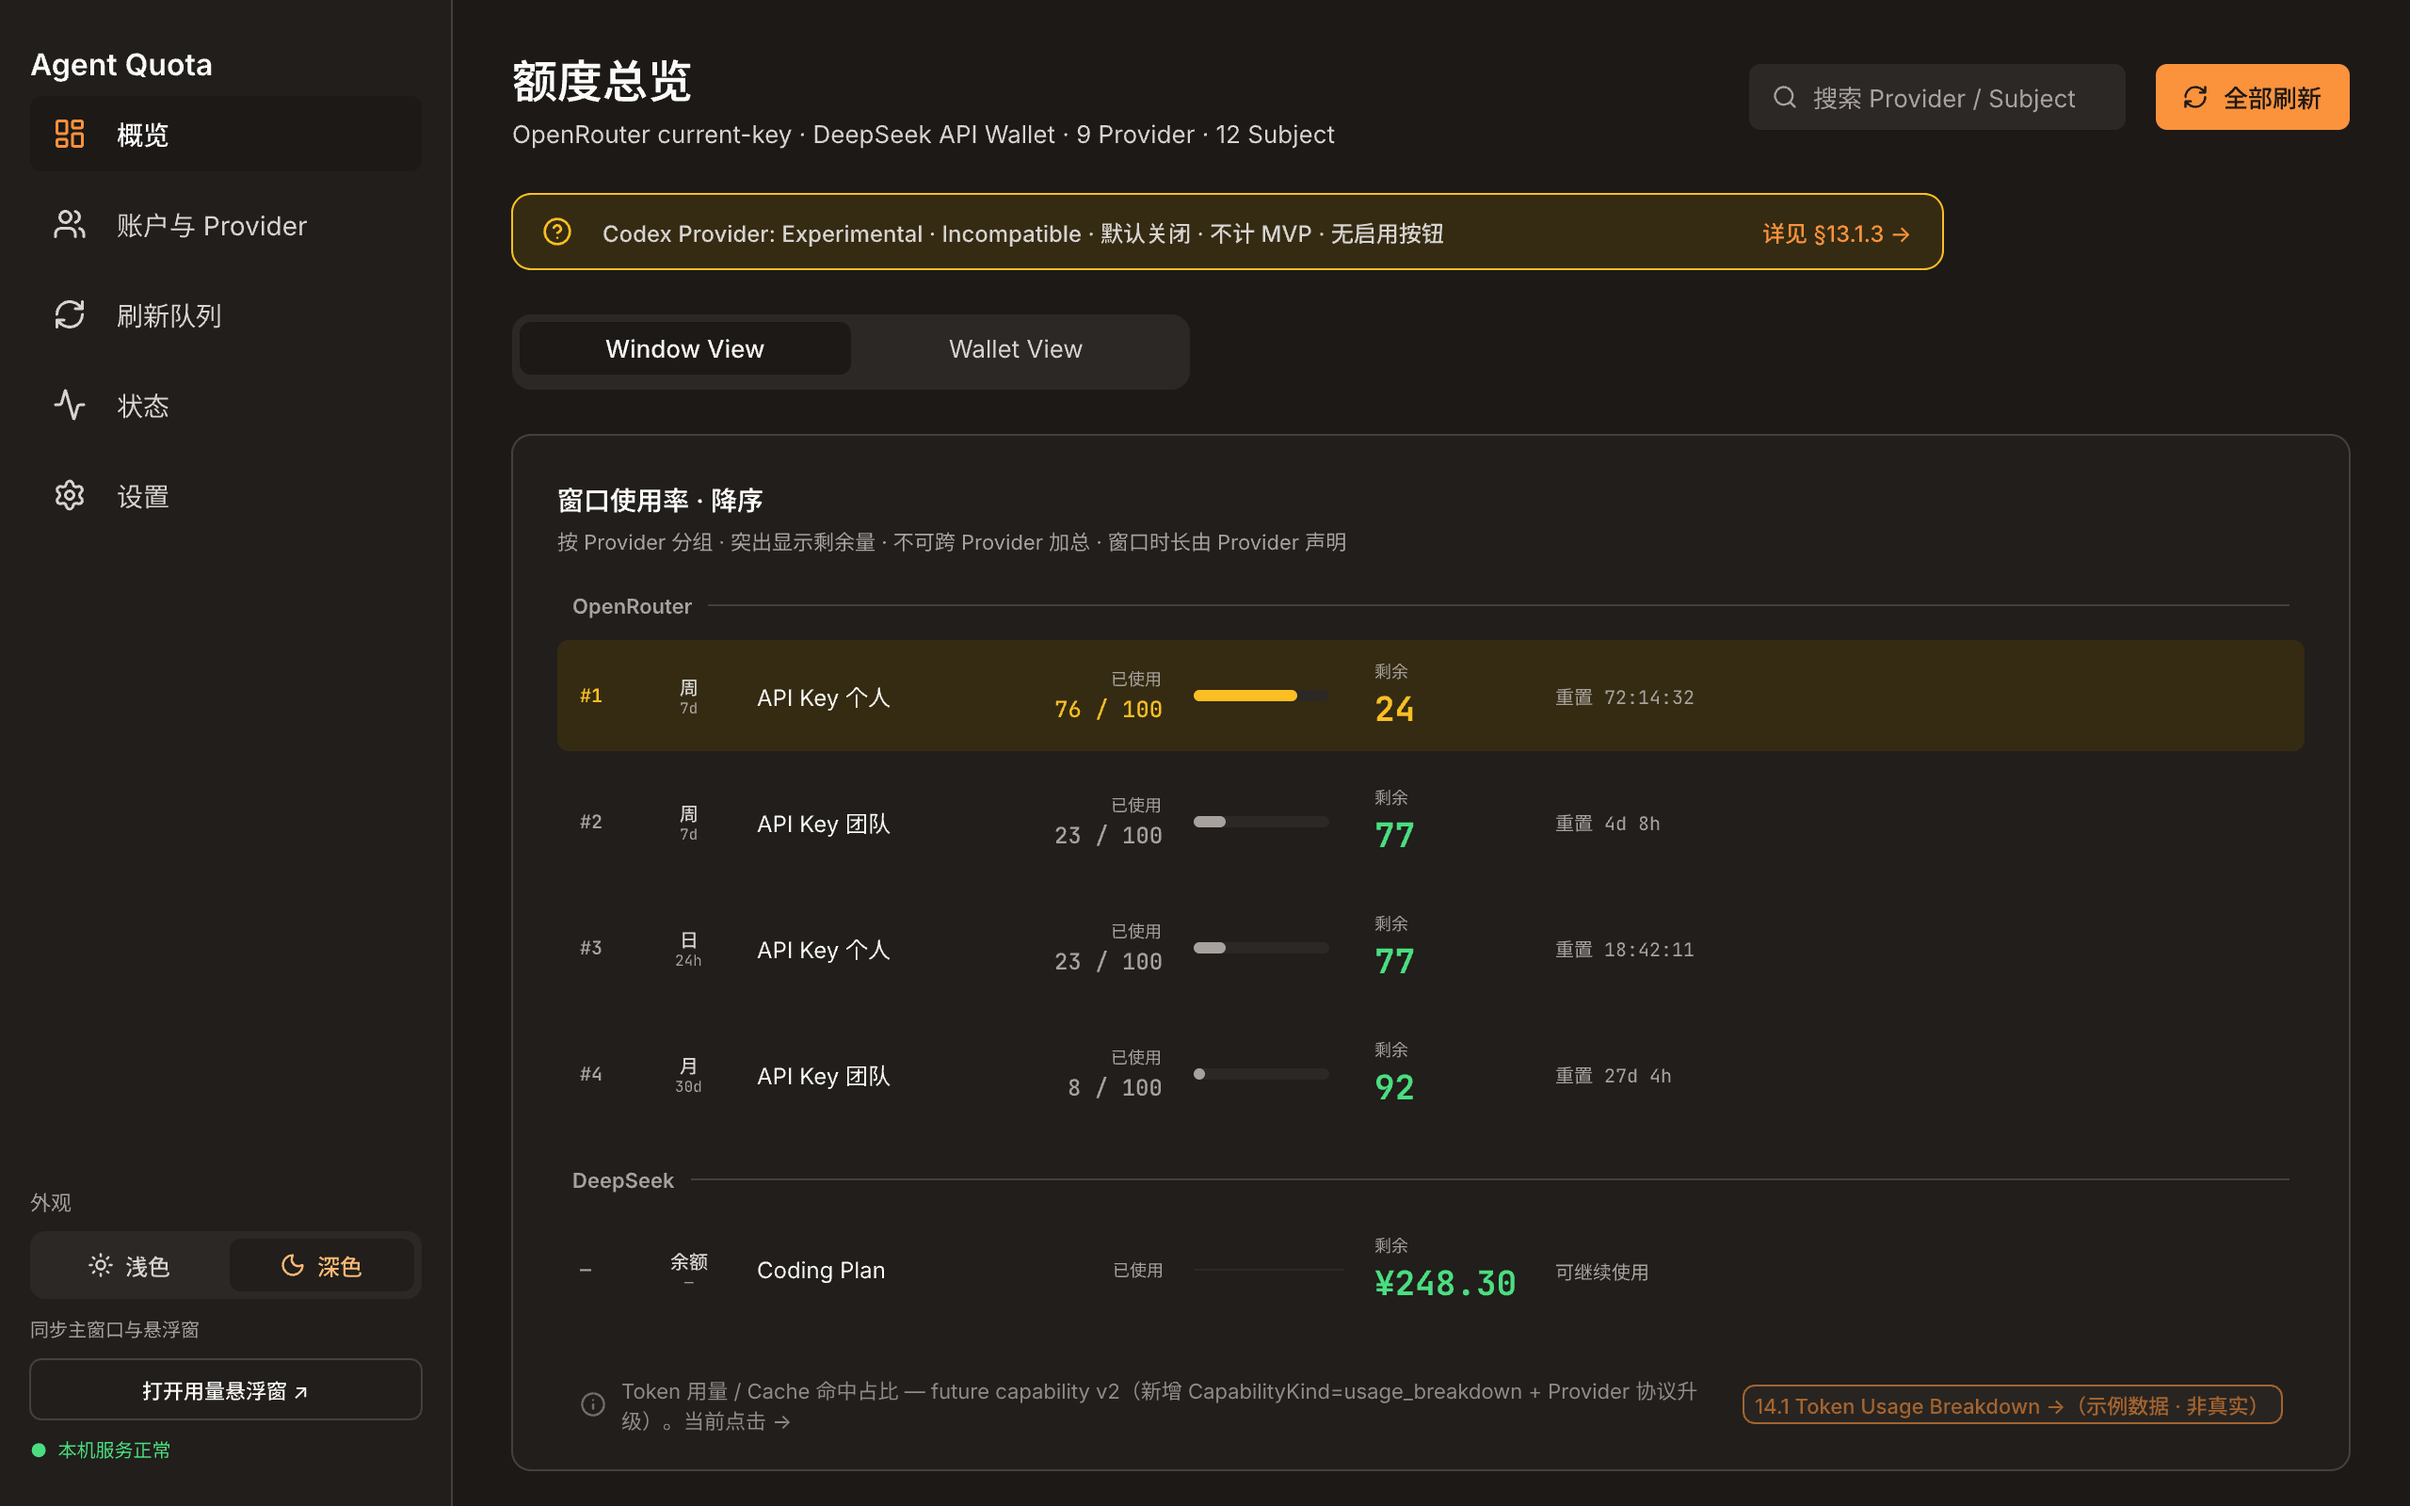
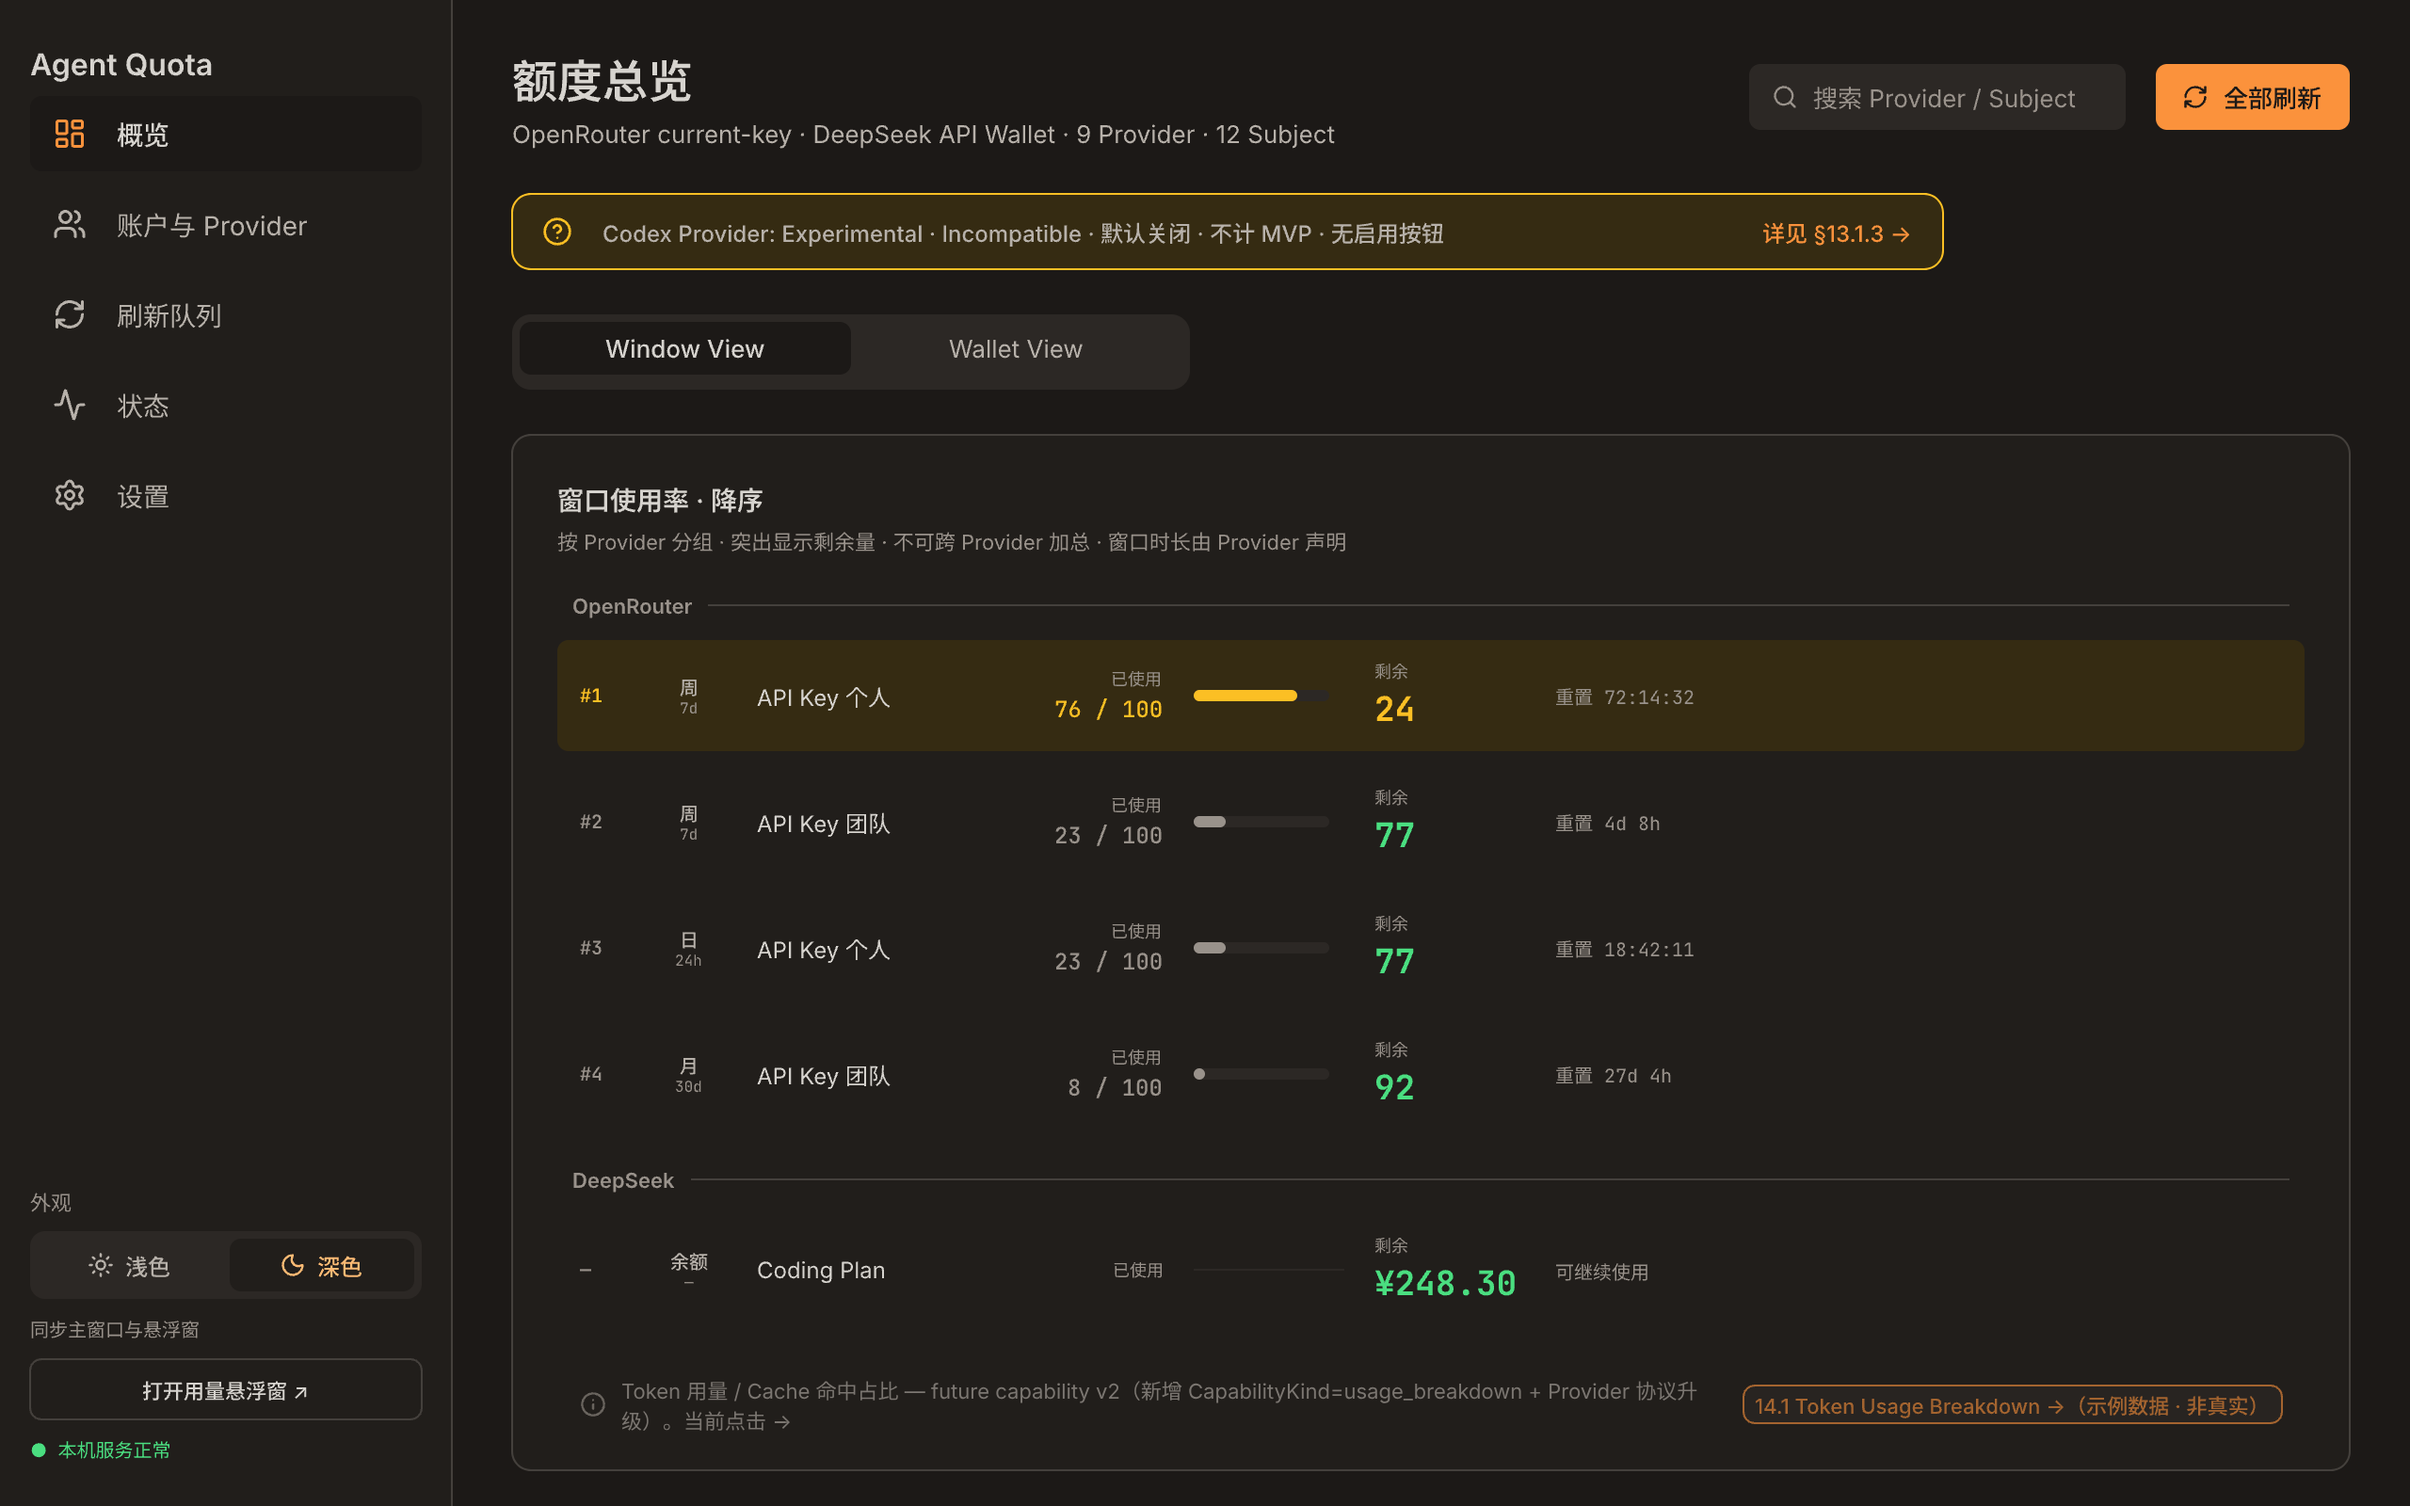
Soften dark appearance typography across main and floating views

diff --git a/public/appearance-bootstrap.css b/public/appearance-bootstrap.css
@@ -1,4 +1,4 @@
 /* Loaded before the synchronous bootstrap, including during a persisted dark-theme reload. */
 :root { color-scheme: light; color: #0c0a09; background: #fff; }
-:root[data-theme="dark"] { color-scheme: dark; color: #fafaf9; background: #1c1917; }
+:root[data-theme="dark"] { color-scheme: dark; color: #d6d3ce; background: #1c1917; }
 :root.floating-surface, .floating-surface body { background: transparent; }

diff --git a/src/ui/styles.css b/src/ui/styles.css
@@ -44,9 +44,9 @@
   --subtle: #211e1b;
   --raised: #2c2825;
   --panel: #211e1b;
-  --ink: #fafaf9;
-  --secondary: #d6d3d1;
-  --muted: #a8a29e;
+  --ink: #d6d3ce;
+  --secondary: #b7b1aa;
+  --muted: #99928b;
   --line: #44403c;
   --strong-line: #57534e;
   --accent: #fb923c;

diff --git a/docs/APPEARANCE.md b/docs/APPEARANCE.md
@@ -8,12 +8,14 @@
 |---|---|---|
 | 背景 | `#ffffff` | `#1c1917` |
 | 次级背景 | `#fafaf9` | `#211e1b` |
-| 主文字 | `#0c0a09` | `#fafaf9` |
-| 次级文字 | `#44403c` | `#d6d3d1` |
-| 辅助文字 | `#78716c` | `#a8a29e` |
+| 主文字 | `#0c0a09` | `#d6d3ce` |
+| 次级文字 | `#44403c` | `#b7b1aa` |
+| 辅助文字 | `#78716c` | `#99928b` |
 | 强调色 | `#ea580c` | `#fb923c` |
 | 额度背景 | `#fef3c7` | `#352b12` |
 | 边框 | `#e7e5e4` | `#44403c` |
+
+深色主文字使用柔和暖灰白，降低接近纯白带来的刺眼感；次级说明、辅助文字依次降低亮度。主窗口、浮窗和首屏样式共用相同层级。以实际颜色计算，主文字与主背景的对比度约 11.72:1；三层文字在主背景、面板、凸起背景、额度和异常卡片上的最低对比度约 4.54:1。浅色及状态强调色保持原值。
 
 ## 行为与安全边界
 
